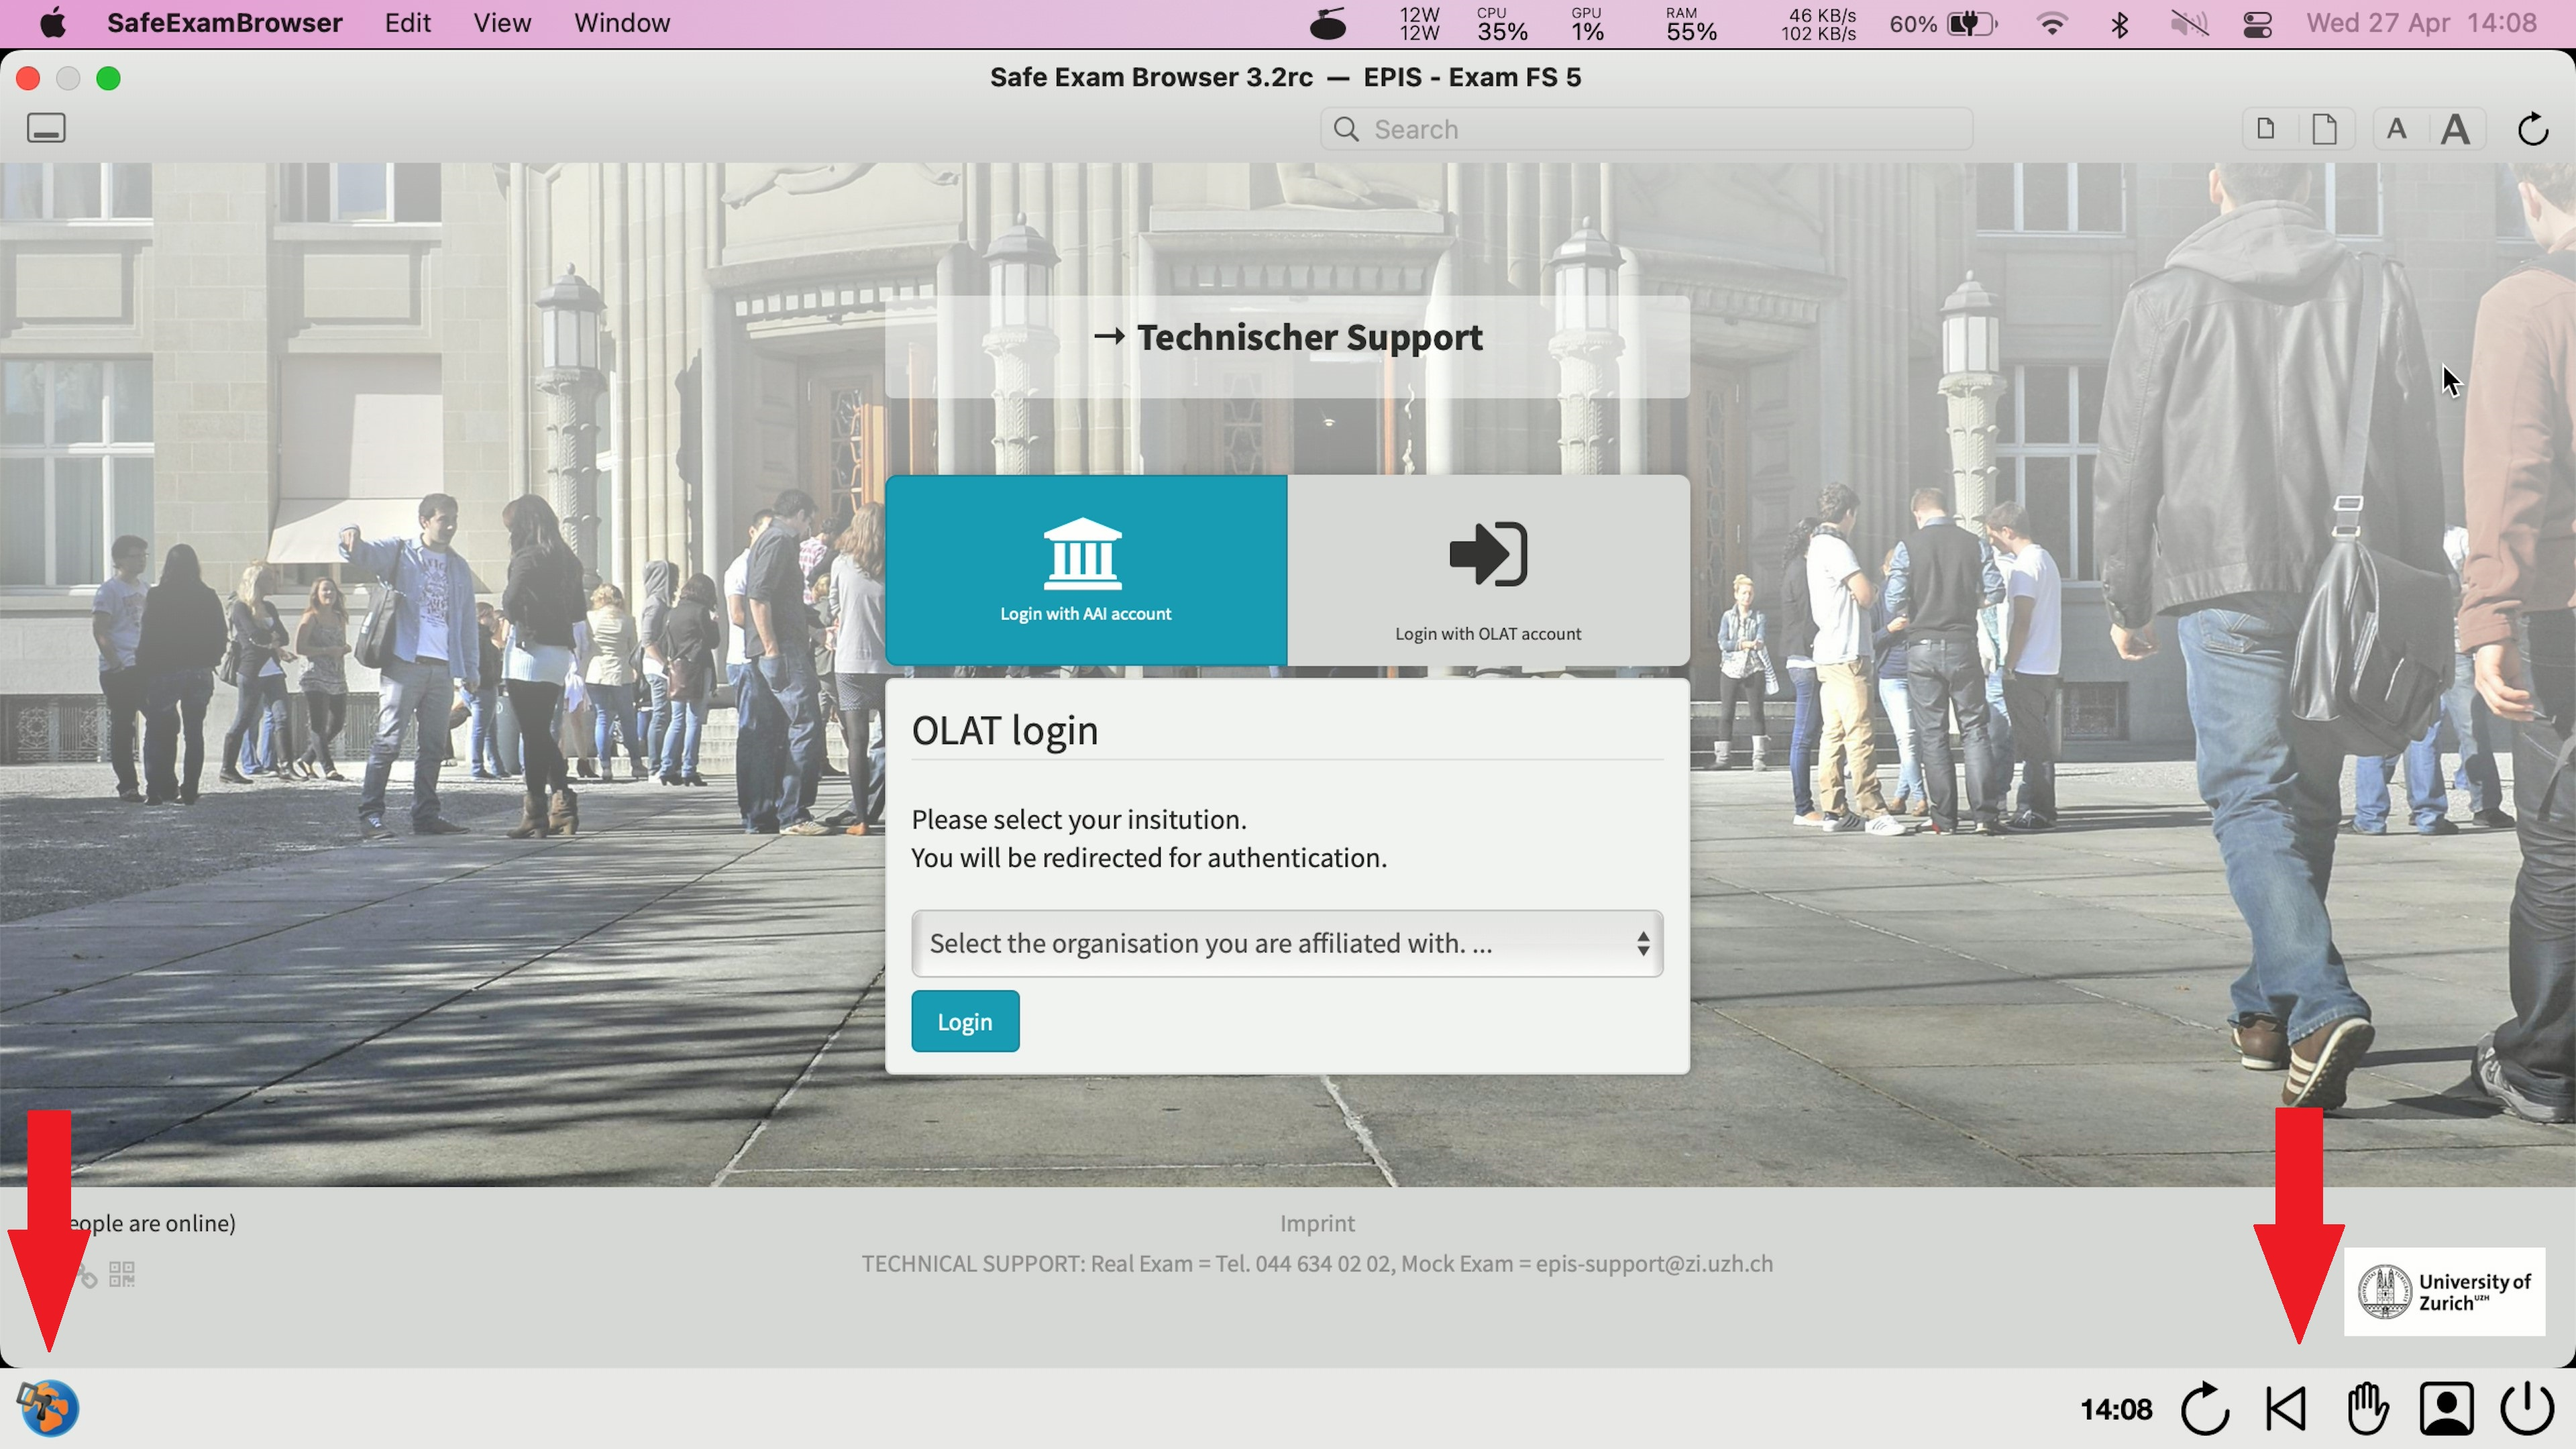
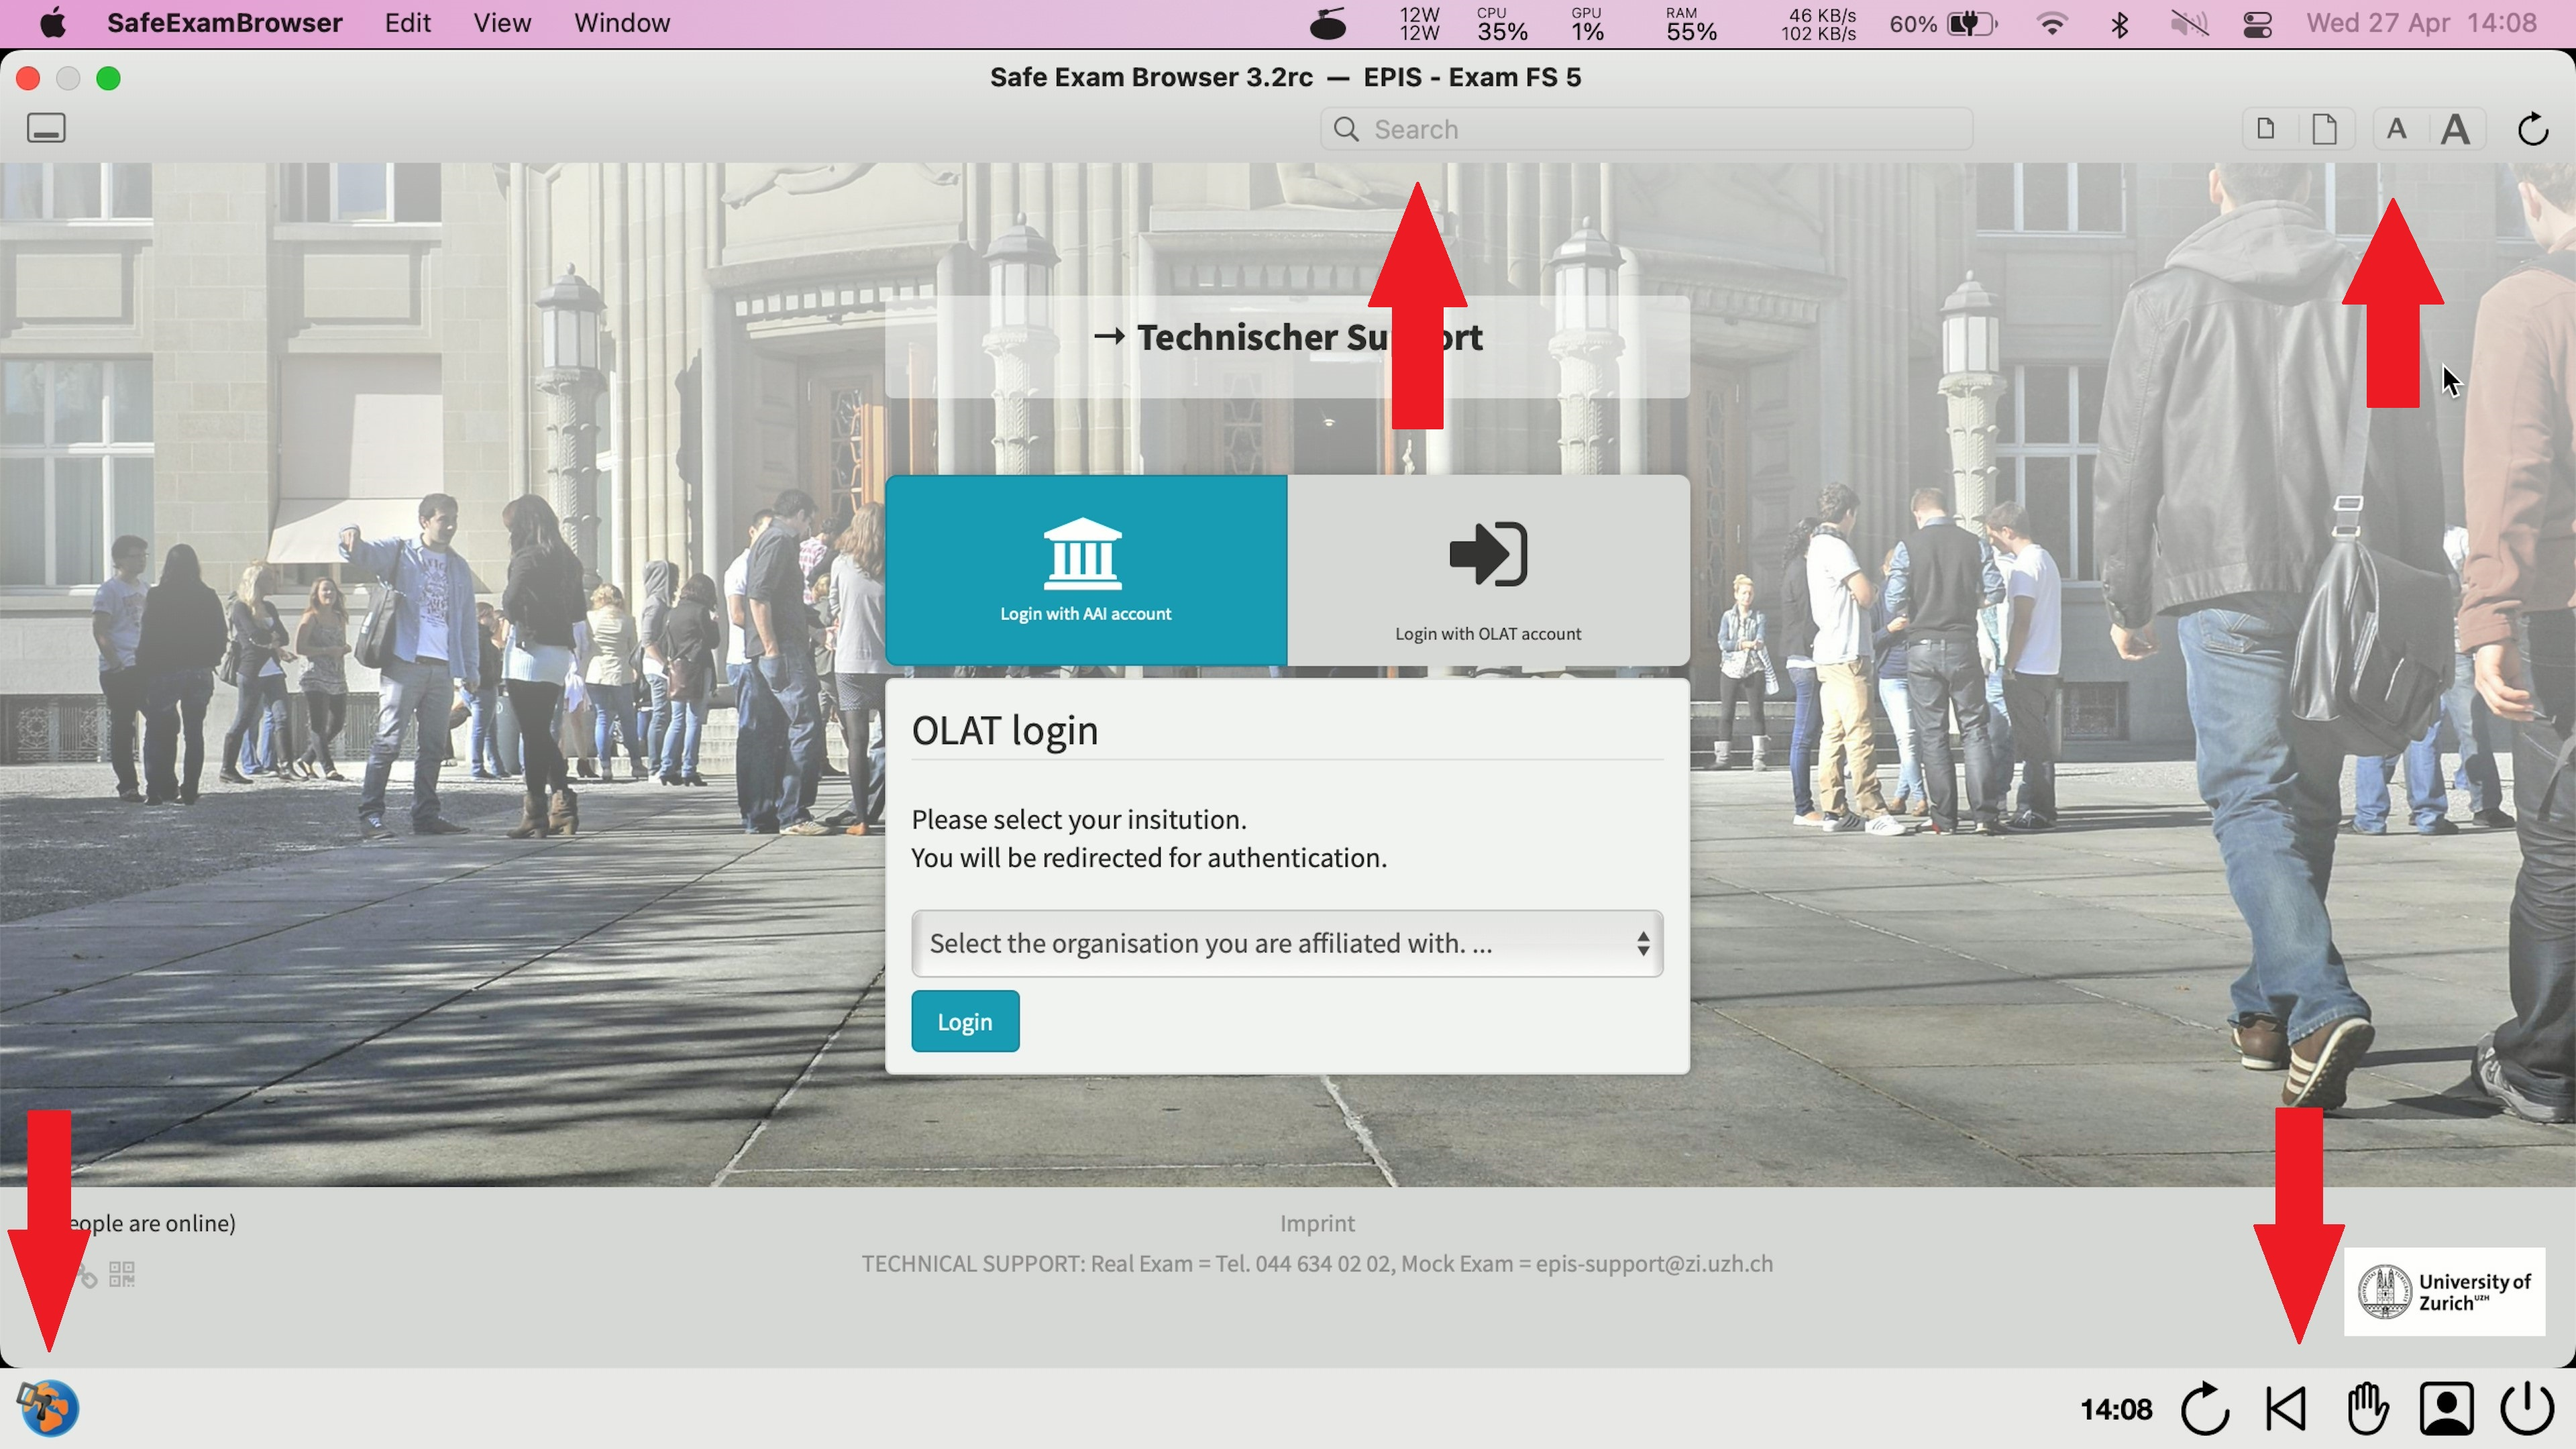
feedback from patrick meyer
Bi de Icons würi am Afang öppis im Stil schriebe: je nach Betriebssystem werde die Icons amne andere Ort azeigt. Nachfolgend isch es eifach für MacOS ufzeigt.
Bi de Handraise Message wärs natürlich optimal es für eher öppis staht wie: Meine Antworten werden nicht gespeichert. Und me chönnt schriebe sie sölle in wenige Wörter ihres Problem schildere
Denn frögt sich ob mr na die Sache obe wän erkläre, also Zoom und Suechfunktionalitäte
Bi openbook fehlt, dass mr uf MacOS Firefox nöd chan bruche
Bi openbook fehlt, wie me wieder zum SEB zruck findet in Windows. Also wie me wieder d SEB-Leiste mit em Hanraise azeigt
Bi openbook wärs na guet wenn de Screenshot nöd d Meldig wür azeige, dass de SEB nöd konfiguriert isch. Also irgend öppis us Ans oder OLAT

Changed region(s): [[0.5312, 0.1241, 0.5938, 0.3102], [0.9062, 0.1241, 0.9688, 0.2792]]

diff --git a/open_book.md b/open_book.md
@@ -13,10 +13,18 @@ If you are using MS Windows you can open your start menu by clicking the "window
 
 Another way to access your software is by using "swipe-gestures" on the touchpad of your notebook. Swipe up (away from yourself) using 3 fingers on the touchpad shows priorly opened software. For more information regarding "swipe gestures" search for "touch gestures" on the official Windows support page.
 
-**MacOS by Apple**
-If you are using MacOS software can currently only be accessed through the usage of "swipe gestures". Swipe up with 3 fingers on your touchpad in order to bring up your dock. Currently the dock will not be fully displayed and is partially hidden by SEB. Nevertheless, you should still be able to open your desired software. For more information regarding "swipe gestures" search for "touch gestures" on the official Apple support page.
+When using Windows it might happen that you do not see the SEB icons (such as "raise hand" or "refresh page") on the toolbar anymore.
 
-The combination of command + arrow key can also be used, but must be setup beforehand.
+[![openbook_sebtoolbar_01](assets/openbook_sebtoolbar_01.jpg)](assets/openbook_sebtoolbar_01.jpg)
+
+In order to see the icons again, you have to click on the SEB icon in the Windows toolbar and select the "Taskbar" SEB window. The icons will then return back to the SEB toolbar.
+
+[![openbook_sebtoolbar_02](assets/openbook_sebtoolbar_02.jpg)](assets/openbook_sebtoolbar_02.jpg)
+
+**MacOS by Apple**
+If you are using MacOS software can currently be accessed through the usage of "swipe gestures". Swipe up with 3 fingers on your touchpad in order to bring up your dock. Currently the dock will not be fully displayed and is partially hidden by SEB. Nevertheless, you should still be able to open your desired software. For more information regarding "swipe gestures" search for "touch gestures" on the official Apple support page.
+
+The combination of control + arrow key can also be used, but must be setup beforehand.
 
 [![icons-openbook_dock](assets/openbook_dock.jpg)](assets/openbook_dock.jpg)
 
@@ -25,3 +33,6 @@ As preparation for an open book exam conducted in SEB you should take following 
 * Make sure that all software you might use during the exam is already pinned to your toolbar / dock before the exam.
 * You can also open up software you might need before the exam. SEB will keep allowed software open in the background. This might help you accessing software quicker and might safe you time on the exam and makes software easier to find.
 * To be sure pin more than one browser to your toolbar / dock (firefox and Google chrome are recommended)
+
+**Important**
+* Firefox cannot be used during an SEB Open Book Exam on MacOS

diff --git a/icons_explained.md b/icons_explained.md
@@ -6,7 +6,7 @@ nav_order: 1
 ---
 
 ## Icons in Safe Exam Browser (SEB)
-At the bottom of SEB you can find additional functionality which is briefly explained here.
+SEB offers a range of different functionality which, depending on the operating system and the exam, might be found at different places. Following examples were created using MacOS, nonetheless is the functionality the same for all operating systems.
 
 [![icons-overview](assets/icons_overview.jpg)](assets/icons_overview.jpg)
 
@@ -22,7 +22,7 @@ The button "Back to Start" should not be clicked as it forces SEB to jump back t
 
 [![icons-back](assets/icons_back.jpg)](assets/icons_back.jpg)
 
-By clicking the "hand" icon the exam team is notified that you need support. Depending on the operating system you are using a long press on this button opens a message dialogue. Through this dialogue you may also submit additonal info to the exam team regarding your problem.
+By clicking the "hand" icon the exam team is notified that you need support. Depending on the operating system you are using a long press on this button opens a message dialogue. Through this dialogue you may also submit additonal info to the exam team regarding your problem. Briefly describe your problem here.
 
 [![icons-hand-01](assets/icons_hand_01.jpg)](assets/icons_hand_01.jpg)
 
@@ -41,3 +41,9 @@ By clicking on the "proctoring button" a Zoom window opens showing all participa
 The button "quit" will close SEB and end the exam for you. Depending on the exam closing of SEB might only be possible through entering a password. This password will be given to you at the end of the exam by the exam team. To be safe never close the SEB if you are not told to do so. Closing SEB during an exam is considered fraud.
 
 [![icons-icons_quit](assets/icons_quit.jpg)](assets/icons_quit.jpg)
+
+In the top part of SEB additional functionality such as search and zoom is found. Search allows you to highlight matching text on the exam page.
+
+The different zoom functions allow you to increase/decrease the whole page or increase/decrease the text on the page.
+
+[![icons-search-zoom](assets/icons_search_zoom.jpg)](assets/icons_search_zoom.jpg)
